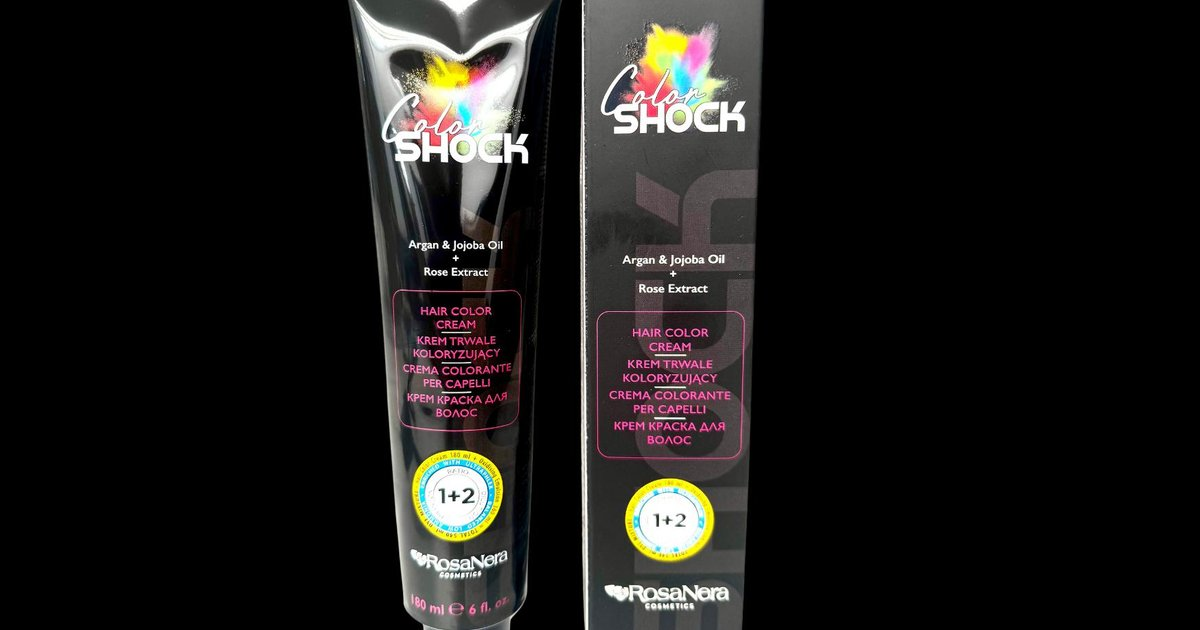
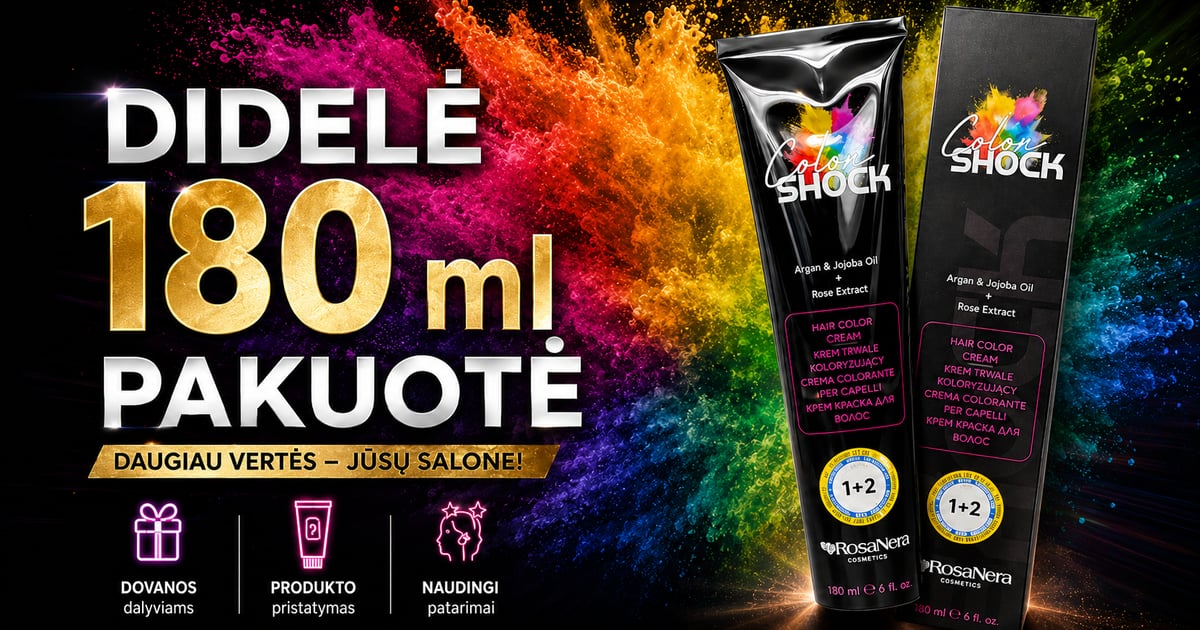
SEO: prideti og:image i visus puslapius
buildPageMetadata + root layout abu deklaruoja images. Pridetas
public/og-image.jpg. Issprendzia: vidiniai puslapiai (/produktai ir kt.)
FB share preview rode tuscia kortele, nes Next.js metadata merge
override'ino file-convention versija.

diff --git a/dazai-kirpejams/src/lib/seo.ts b/dazai-kirpejams/src/lib/seo.ts
@@ -12,6 +12,19 @@ export const SITE_URL = (
 export const SITE_NAME = 'Dažai Kirpėjams'
 
 /**
+ * Statinis OG paveiksliukas (1200×630, JPG). Padengia FB/LinkedIn/Twitter
+ * share preview visiems puslapiams, kurie naudoja `buildPageMetadata`.
+ * Pagrindiniam puslapiui taip pat veikia file-convention versija
+ * `src/app/(site)/[lang]/opengraph-image.jpg` — tas pats failas. Bet
+ * pagal Next.js metadata merge logiką, kai page'as nustato `openGraph: {...}`
+ * be `images`, vaikų puslapyje rodytų FB tuščią kortelę. Todėl
+ * eksplicitiškai paduodam šitą URL kiekvienam puslapiui.
+ */
+export const OG_IMAGE_URL = '/og-image.jpg'
+export const OG_IMAGE_WIDTH = 1200
+export const OG_IMAGE_HEIGHT = 630
+
+/**
  * Sukuria hreflang alternates žemėlapį visiems locale'ams vienam path'ui.
  * Path turi prasidėti „/" ir NETURI turėti locale prefikso (pvz. „/produktai").
  */
@@ -71,11 +84,20 @@ export function buildPageMetadata({
       description,
       url: canonical,
       type: 'website',
+      images: [
+        {
+          url: OG_IMAGE_URL,
+          width: OG_IMAGE_WIDTH,
+          height: OG_IMAGE_HEIGHT,
+          type: 'image/jpeg',
+        },
+      ],
     },
     twitter: {
       card: 'summary_large_image',
       title,
       description,
+      images: [OG_IMAGE_URL],
     },
   }
 }

diff --git a/dazai-kirpejams/src/app/(site)/[lang]/layout.tsx b/dazai-kirpejams/src/app/(site)/[lang]/layout.tsx
@@ -23,6 +23,9 @@ import {
   SITE_URL,
   buildCanonicalUrl,
   buildLanguageAlternates,
+  OG_IMAGE_URL,
+  OG_IMAGE_WIDTH,
+  OG_IMAGE_HEIGHT,
 } from '@/lib/seo'
 
 const inter = Inter({
@@ -65,11 +68,20 @@ export async function generateMetadata({
       alternateLocale: ['lt_LT', 'en_US', 'ru_RU'].filter(
         (l) => l !== (lang === 'lt' ? 'lt_LT' : lang === 'en' ? 'en_US' : 'ru_RU')
       ),
+      images: [
+        {
+          url: OG_IMAGE_URL,
+          width: OG_IMAGE_WIDTH,
+          height: OG_IMAGE_HEIGHT,
+          type: 'image/jpeg',
+        },
+      ],
     },
     twitter: {
       card: 'summary_large_image',
       title: dict.meta.title,
       description: dict.meta.description,
+      images: [OG_IMAGE_URL],
     },
     robots: {
       index: true,